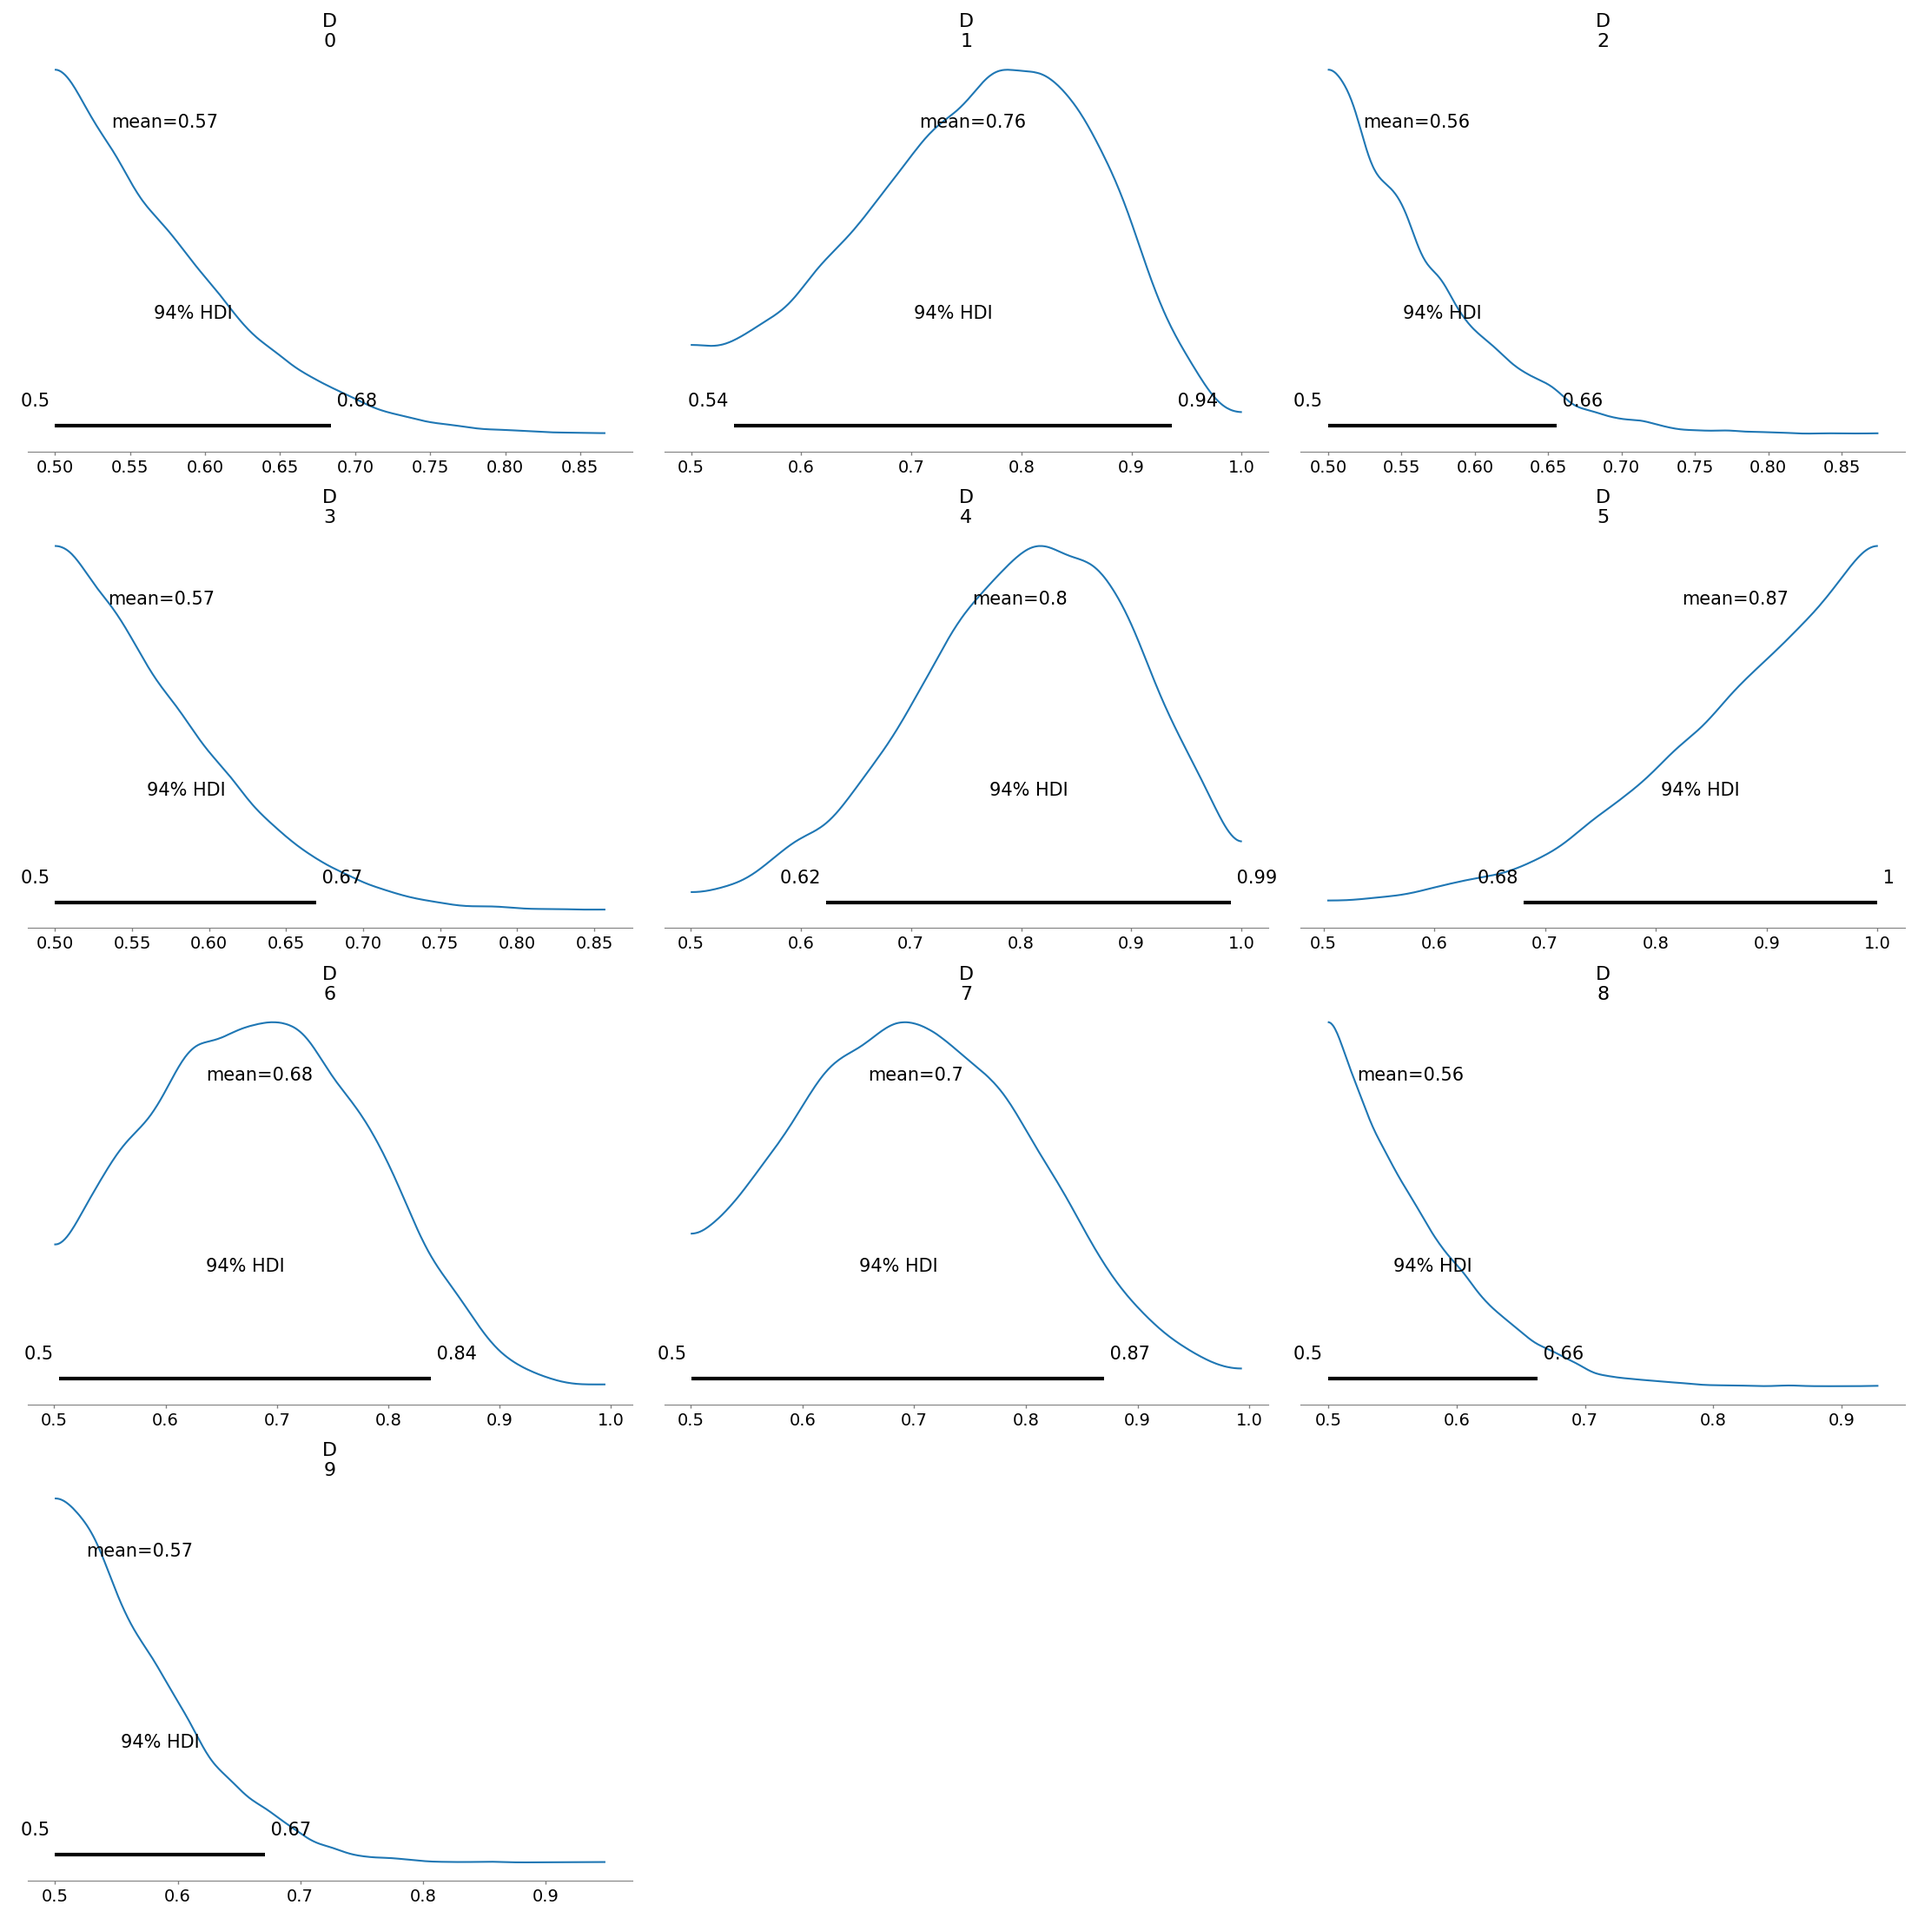
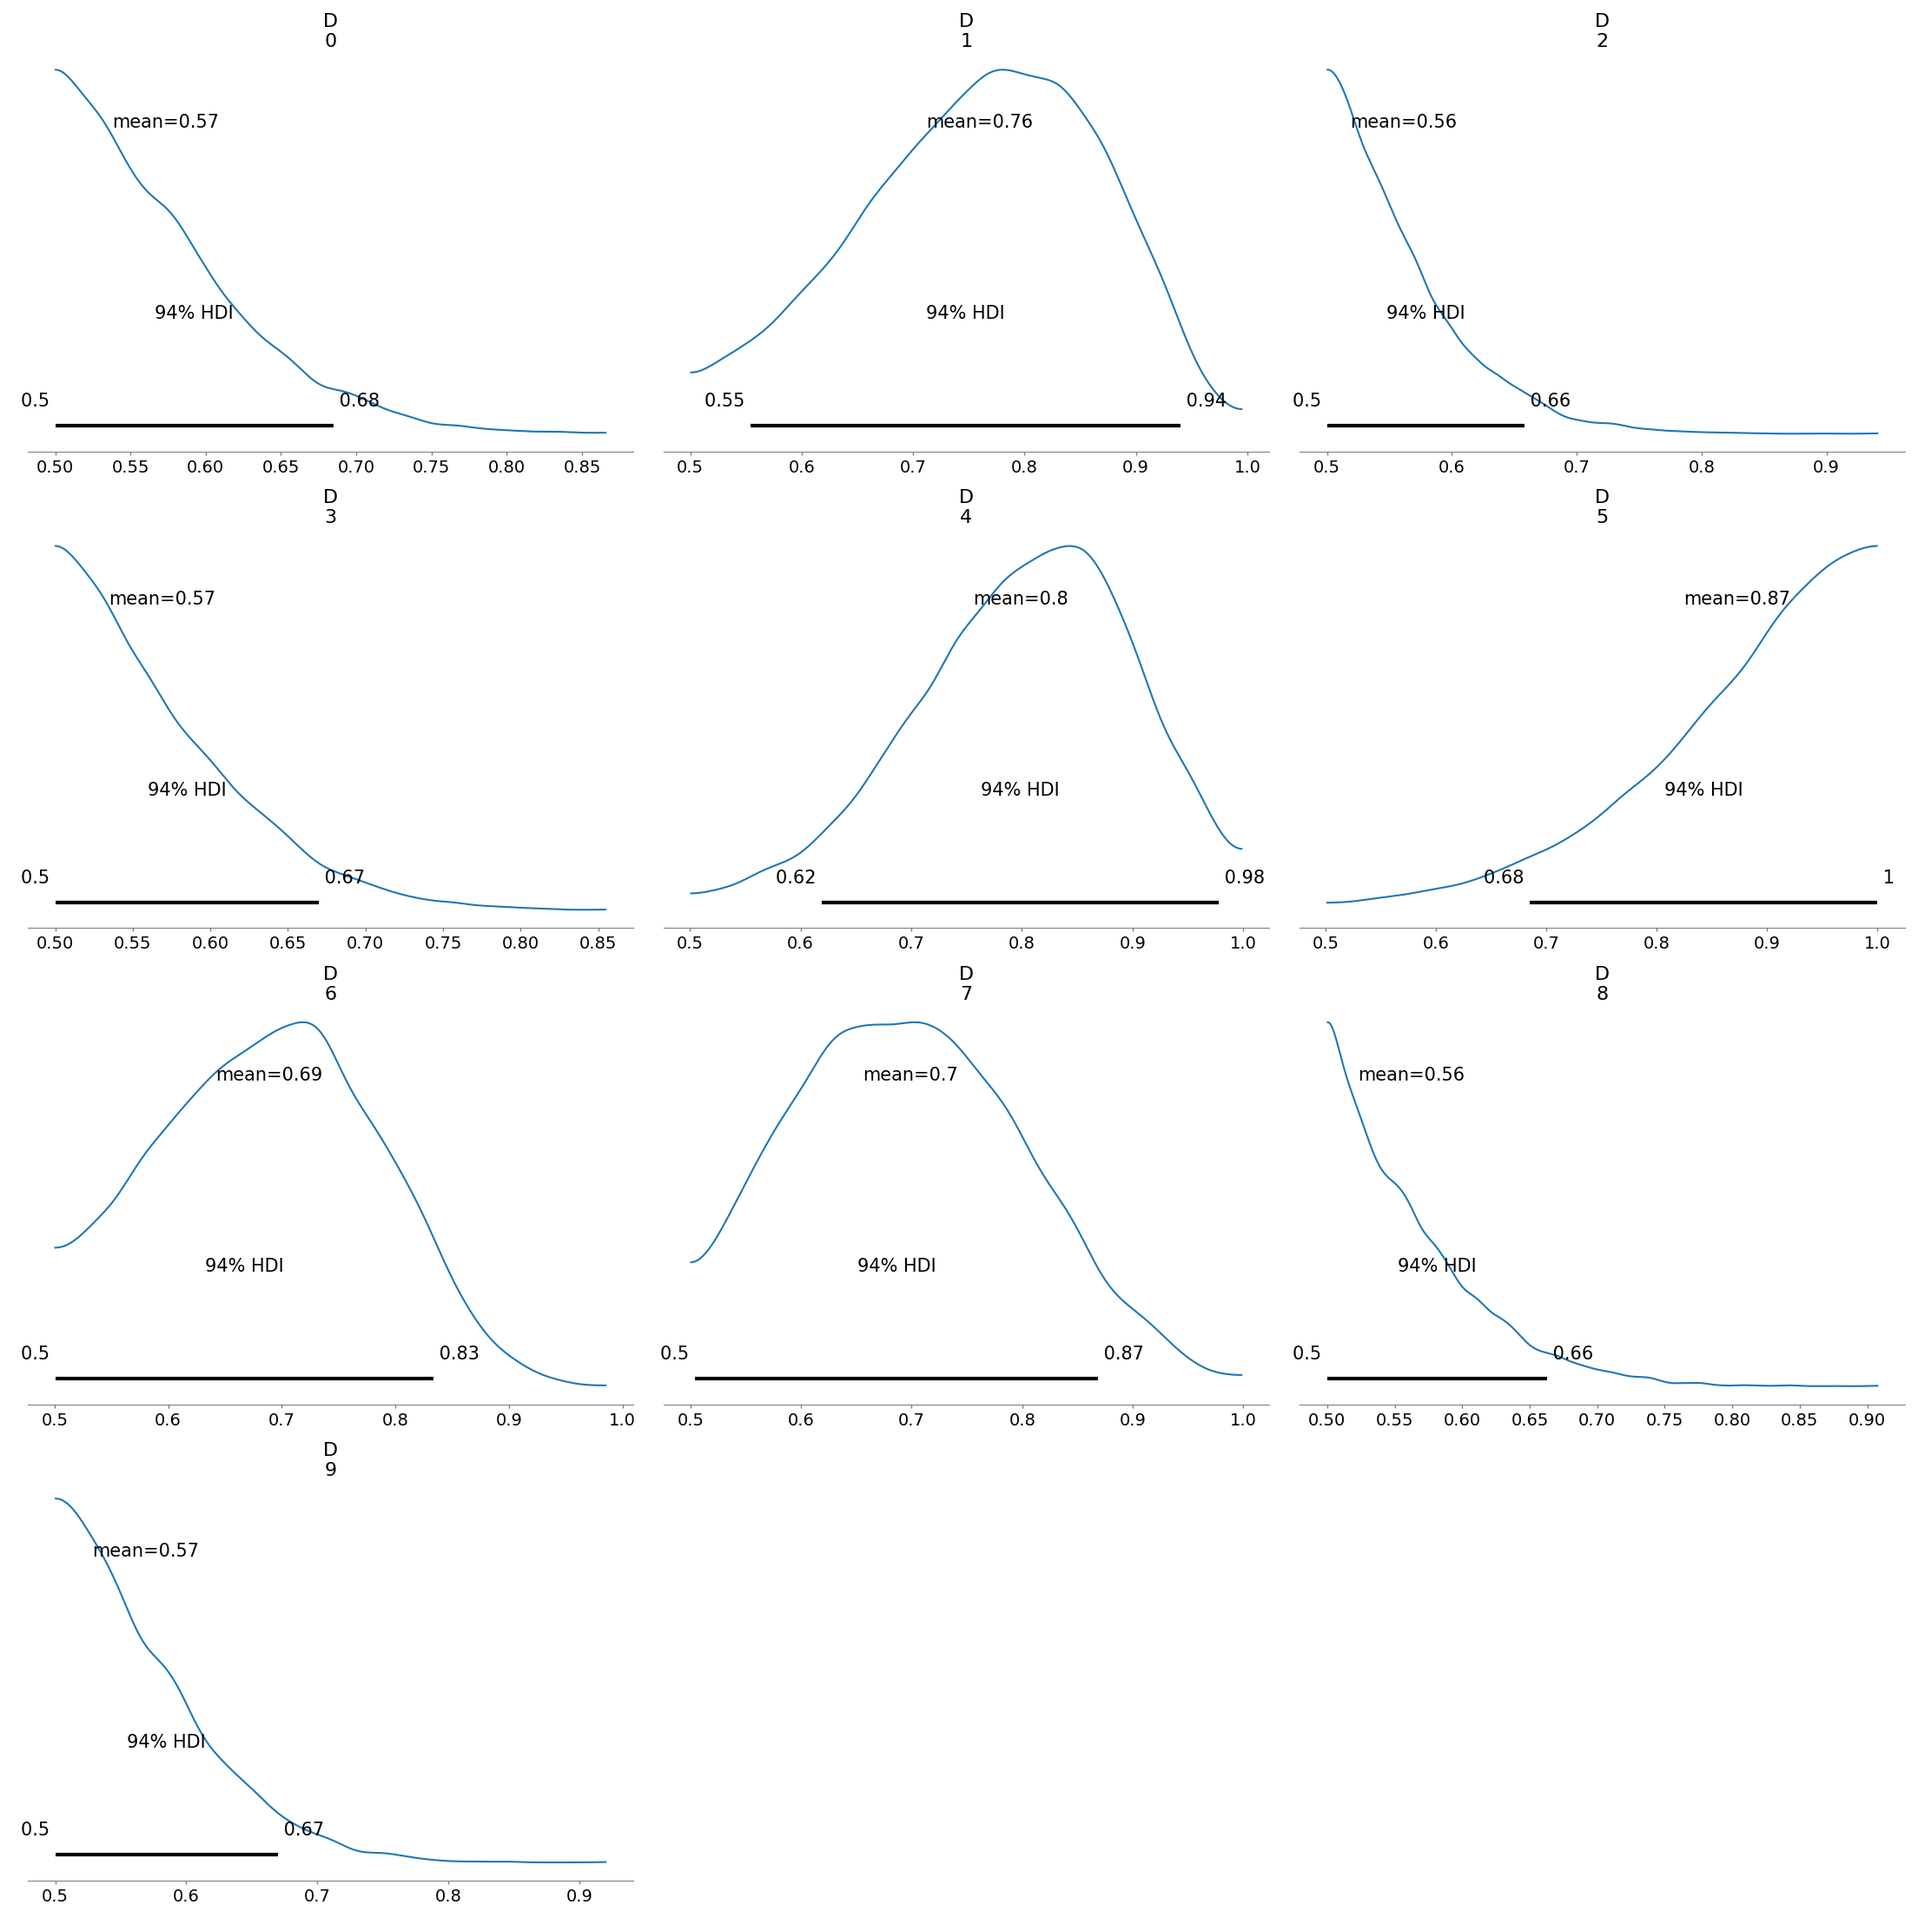
writeup

diff --git a/code/cct.py b/code/cct.py
@@ -51,7 +51,7 @@ def analyze_results(idata, data):
     summary = az.summary(idata, var_names=var_names, hdi_prob=0.94)
     print(summary)
 
-    az.plot_pair(idata, var_names=var_names, kind='scatter', marginals=True, point_estimate='mean') 
+    az.plot_pair(idata, var_names=var_names, kind='kde', marginals=True, point_estimate='mean') 
     plt.gcf().suptitle(f"Pair Plot", y=1.02)
     plt.tight_layout()
     plt.savefig(FIG_DIR / "pair_plot.png")
@@ -94,7 +94,7 @@ def analyze_results(idata, data):
 
     comparison = majority_vote == Z_estimated
     agreement = np.mean(comparison) #comparing majority vote answer key to posterior consensus answer key
-    print('Percentage agreement between data and inference', agreement, '%')
+    print('Agreement between data and inference', agreement)
 
 #the whole thing
 

diff --git a/README.md b/README.md
@@ -1,9 +1,4 @@
 # cct-midterm
 
-will have to talk about identifiability, refer to that
+Here I use a Cultural Consensus Theory (CCT) model to infer and analyze individual informant compentence (D) and the cultural consensus (Z). I set my prior D at Uniform(.5, 1) as I reason that people's competence should be at minimum by chance, and it could go up to 1 to demonstrate absolute certainty with the consensus. Since you said that .5 for Z is common practice, I left at that and there is also no way to tell if the answers are going to be weighted. We are going to just assume it is fair as a result. My results do seem largely reasonable. My posterior means are within the model distribution. The competence range and consensus answer key are calculated correctly. The posterior distribution graphs are also reasonable. Convergence checks from the summary is good with a high ESS and a R-hat of 1, which shows that this model should be identifiable. You did not ask for trace plots so we do not additionally confirm that way. Finally the agreement between the naive data and inference consensus is 80%, showing that they are very similar and that the model can reliably make inferences from the data. I am pretty sure I have implemented the model correctly, though I am unsure of the implementation of my pair plot. I cannot read kind 'kde' but at least when I changed it to 'scatter,' there is no strong negative correlation. This model should be identifiable. I kept the pair plot as 'kde' since that type is for large samples. I also created the figures directory, although it is not listed in the assignment requirements, so that I can view the plots. 
 
-D is .5 (by chance) to 1 (basically surefire expertise)
-Z is .5 as its common practice
-
-note that we didnt save plots since you did not ask for that file structure
-i know it is not part of the folder structure instruction, but plots in terminal is not possible
